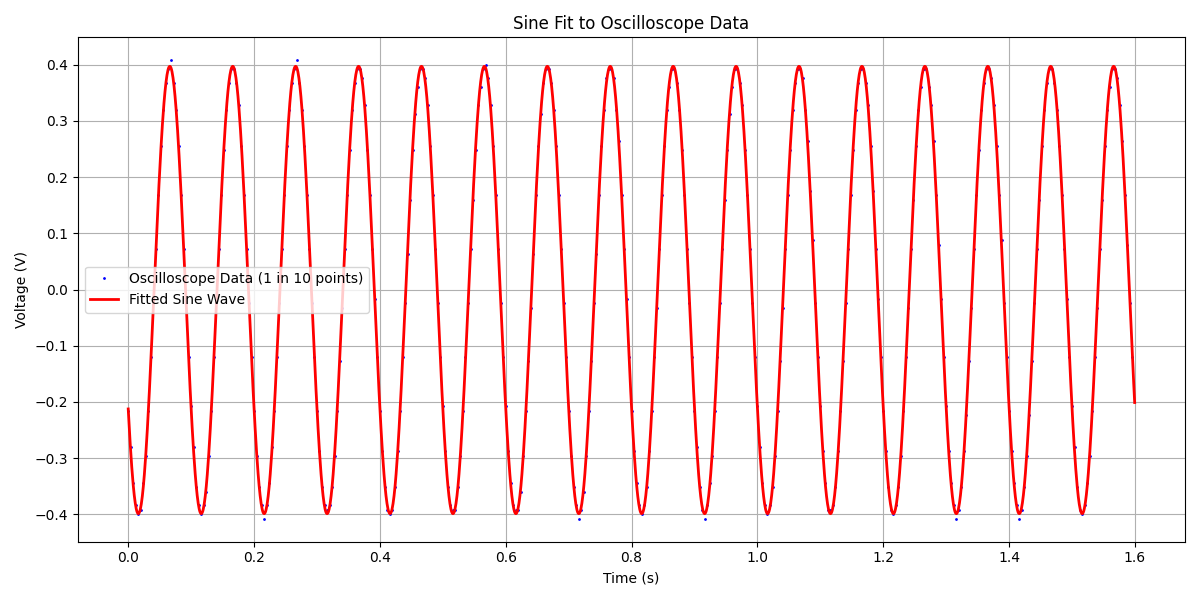
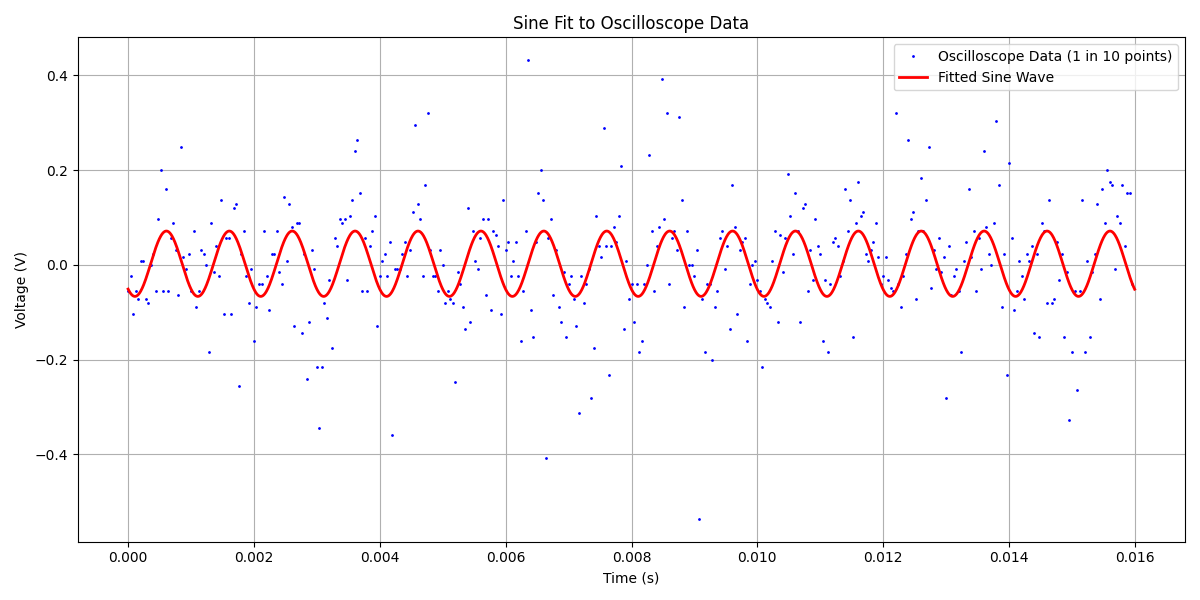
Added sine fit after obtaining scope reading

diff --git a/oscilloscope-gui/src/sine_fit.py b/oscilloscope-gui/src/sine_fit.py
@@ -1,0 +1,125 @@
+import pandas as pd
+import numpy as np
+from scipy.optimize import curve_fit
+from scipy.fft import rfft, rfftfreq
+import matplotlib.pyplot as plt
+from datetime import datetime
+from pathlib import Path
+
+# --- 1. Define the Sine Function to Fit ---
+def sine_func(t, amplitude, omega, phase, offset):
+    """
+    Defines a sine function for fitting.
+    t: time array
+    amplitude: V_peak
+    omega: angular frequency (2*pi*f)
+    phase: phase shift
+    offset: DC offset
+    """
+    return amplitude * np.sin(omega * t + phase) + offset
+
+def fit_waveform(filename, i_peak):
+    # --- 3. Load and Prepare Data ---
+    readings_dir = Path(r"C:\Users\Sell\Desktop\LecturasOsciloscopio")
+    file_path = readings_dir / filename
+    print(f"Loading data from {filename}") 
+    try:
+        df = pd.read_csv(file_path)
+        t_data = df['time_s'].values
+        v_data = df['voltage_V'].values
+    except Exception as e:
+        print(f"Error loading file: {e}")
+        print("Please check the file.")
+        exit()
+
+    # --- 4. Estimate Initial Parameters (p0) for the Fit ---
+    # This helps the fitting algorithm converge quickly and accurately.
+
+    # Guess offset from the mean of the data
+    p0_offset = np.mean(v_data)
+
+    # Guess amplitude from the data range (ignoring offset)
+    p0_amplitude = (np.max(v_data) - np.min(v_data)) / 2.0
+
+    # Guess frequency using FFT (Fast Fourier Transform)
+    sample_spacing = np.abs(t_data[1] - t_data[0]) # Avg time between samples
+    n = len(v_data)
+    # Compute the FFT (ignoring the DC component)
+    yf = rfft(v_data - p0_offset) 
+    xf = rfftfreq(n, sample_spacing)
+    # Find the frequency with the largest amplitude
+    dominant_freq_index = np.argmax(np.abs(yf[1:])) + 1
+    dominant_freq = xf[dominant_freq_index]
+    # Convert to angular frequency (omega = 2*pi*f)
+    p0_omega = 2 * np.pi * dominant_freq
+
+    # Guess phase (0 is usually fine)
+    p0_phase = 0.0
+
+    # Pack guesses into an array
+    p0 = [p0_amplitude, p0_omega, p0_phase, p0_offset]
+
+    # --- 5. Perform the Curve Fit ---
+    try:
+        # Run the optimization
+        params, covariance = curve_fit(sine_func, t_data, v_data, p0=p0, maxfev=10000)
+
+        # Extract fitted parameters
+        fit_amplitude = params[0]
+        fit_omega = params[1]
+        fit_phase = params[2]
+        fit_offset = params[3]
+
+        # --- 6. Calculate Results and Display ---
+        
+        # Get the peak voltage (V_peak) from the fit
+        # We use abs() in case the fit finds a negative amplitude (180-deg phase)
+        v_peak = np.abs(fit_amplitude)
+        
+        # Calculate impedance |Z| = V_peak / I_peak
+        impedance = v_peak / i_peak
+        fit_frequency = fit_omega / (2 * np.pi)
+
+        print("\n--- Fit Results ---")
+        print(f"Fitted Amplitude (V_peak): {v_peak:.6f} V")
+        print(f"Fitted Frequency: {np.abs(fit_frequency):.6f} Hz")
+        print(f"Fitted Offset: {fit_offset:.6f} V")
+        print(f"  Impedance |Z| = {impedance:,.2f} Ohms")
+
+        # --- 7. Generate a Plot for Verification ---
+        plt.figure(figsize=(12, 6))
+        
+        # Plot only a subset of data points to keep the plot clean
+        plot_skip = 10
+        plt.plot(t_data[::plot_skip], v_data[::plot_skip], 'b.', markersize=2, 
+                label=f'Oscilloscope Data (1 in {plot_skip} points)')
+        
+        # Generate a smooth fitted sine wave for plotting
+        t_plot = np.linspace(t_data.min(), t_data.max(), 2000)
+        v_fit = sine_func(t_plot, *params)
+        
+        plt.plot(t_plot, v_fit, 'r-', linewidth=2, label='Fitted Sine Wave')
+        
+        plt.title('Sine Fit to Oscilloscope Data')
+        plt.xlabel('Time (s)')
+        plt.ylabel('Voltage (V)')
+        plt.legend()
+        plt.grid(True)
+        plt.tight_layout()
+        
+        # Save the plot
+        target_dir = Path(r"C:\Users\Sell\Desktop\LecturasOsciloscopio\Sine_fits")
+        target_dir.mkdir(parents=True, exist_ok=True)
+        timestamp = datetime.now().strftime("%Y%m%d_%H%M%S")
+        out_path = target_dir / f"sine_fit_plot{timestamp}.png"
+        plt.savefig(out_path)
+        print(f"Verification plot saved to '{f"sine_fit_plot{timestamp}.png"}'")
+
+    except RuntimeError as e:
+        print(f"\n--- ERROR ---")
+        print(f"Curve fit failed: {e}")
+        print("This often happens if the initial guesses (p0) are too far from")
+        print("the real values, or if the data is not a clean sine wave.")
+
+    except Exception as e:
+        print(f"An unexpected error occurred: {e}")

diff --git a/oscilloscope-gui/src/gui.py b/oscilloscope-gui/src/gui.py
@@ -4,6 +4,7 @@ import sys
 import io
 import pyvisa
 from oscilloscope import find_instrument, get_waveform_data, save_waveform_csv
+from sine_fit import fit_waveform
 
 class OscilloscopeGUI:
     def __init__(self, master):
@@ -15,6 +16,12 @@ class OscilloscopeGUI:
         self.resource_string = Entry(master, width=30)
         self.resource_string.insert(0, 'ASRL5::INSTR')
         self.resource_string.pack(pady=10)
+
+        # V Amplitude input (integer). Value will be divided by 1_000_000_000 and passed as i_peak.
+        Label(master, text="V Amplitude (integer)").pack()
+        self.v_amp_entry = Entry(master, width=15)
+        self.v_amp_entry.insert(0, "1")
+        self.v_amp_entry.pack(pady=(0,10))
 
         self.start_stop_button = Button(master, text="Start/Stop Communication", command=self.toggle_communication)
         self.start_stop_button.pack(pady=5)
@@ -84,7 +91,15 @@ class OscilloscopeGUI:
             if voltages is not None:
                 file = save_waveform_csv(voltages, time_interval)
                 if file:
+                    # Read V Amplitude, convert to integer, divide by 1e9 for i_peak
+                    try:
+                        v_amp_int = int(self.v_amp_entry.get().strip())
+                    except Exception:
+                        print("Invalid V Amplitude input; using 10")
+                        v_amp_int = 10
+                    i_peak = v_amp_int / 1_000_000_000
                     print(f"Waveform saved as {file}")
+                    fit_waveform(file, i_peak=i_peak)
                 else:
                     print("Failed to save waveform data.")
 

diff --git a/sine_fit_data.py b/sine_fit_data.py
@@ -19,11 +19,11 @@ def sine_func(t, amplitude, omega, phase, offset):
 # --- 2. Set Up File and Experiment Parameters ---
 
 # Set the path to your oscilloscope data file
-file_path = 'C:/Users/Sell/Desktop/LecturasOsciloscopio/waveform_20251103_172843.csv' 
+file_path = 'C:/Users/Sell/Desktop/LecturasOsciloscopio/waveform_20251104_180301.csv' 
 
 # Set your known peak current (I_peak) based on your experiment
 # I_peak = 10V * 1nA/V = 10 nA = 10e-9 Amps
-i_peak = 10e-9  
+i_peak = 5e-9  
 
 # --- 3. Load and Prepare Data ---
 print(f"Loading data from '{file_path}'...")
